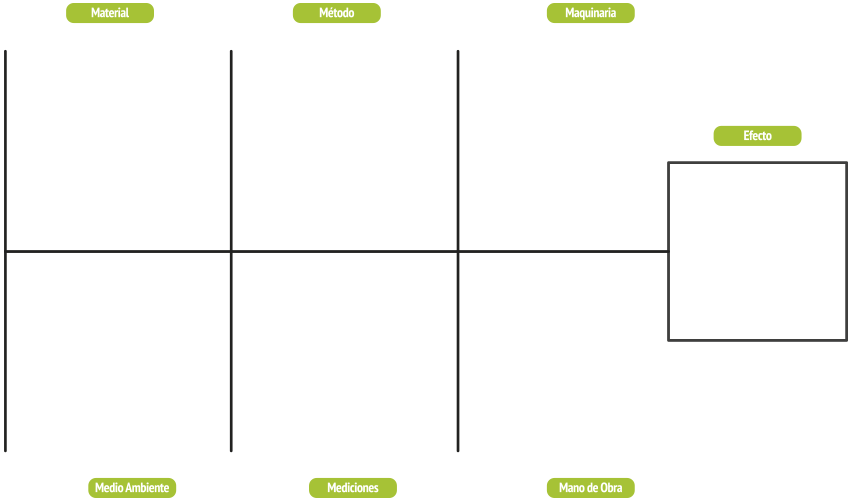
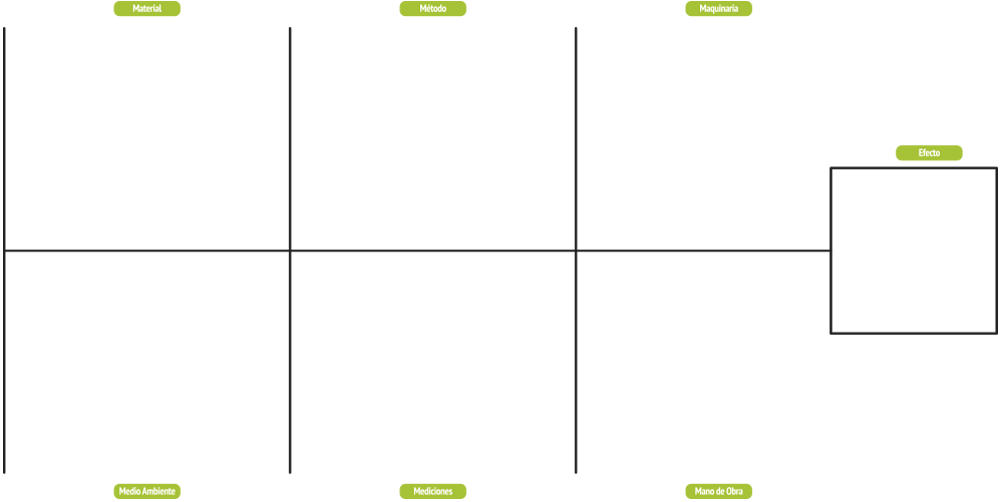
Correcion de modulo ishikawa

diff --git a/src/app/ishikawa/utils-for-pdf/generate.diagram.text.ts b/src/app/ishikawa/utils-for-pdf/generate.diagram.text.ts
@@ -1,7 +1,7 @@
 import { PetIshikawa } from "../../models/pet-ishikawa";
 import { PetIdeas } from "../../models/pet-ideas";
 
-function ajusteDeTexto(texto, x, y, maxWidth, alturaDeLinea, ctx: any) {
+function ajusteDeTexto(texto="", x, y, maxWidth, alturaDeLinea, ctx: any) {
     // crea el array de las palabras del texto
     let palabrasRy = texto.split(" ");
     // inicia la variable var lineaDeTexto
@@ -34,84 +34,84 @@ function getIdeasByEmeSelected(id_eme: number, ishikawa: PetIshikawa): Array<Pet
 
 function getDiamagraIshikawa(ishikawa: PetIshikawa, ctx: any, canvas: any) {
     //Pinta probelma
-    ajusteDeTexto(ishikawa.problema, canvas.width - 180, 173, 175, 8, ctx);
+    ajusteDeTexto(ishikawa.problema, canvas.width - 165, 178, 170, 8, ctx);
 
     //Mano de obra
     let ideas_mano_obra = getIdeasByEmeSelected(1, ishikawa);
     for (let i = 0; i < 3 && ideas_mano_obra[i]; i++) {
         let porques = ideas_mano_obra[i].porques;
-        let resta = (i == 0)? 389: (i == 1)? 322 : 256;
-        ajusteDeTexto(ideas_mano_obra[i].idea, canvas.width - resta, 262, 66, 8, ctx);
-        ajusteDeTexto(porques.porque_uno, canvas.width - resta, 322, 66, 8, ctx);
-        ajusteDeTexto(porques.porque_dos, canvas.width - resta, 349, 66, 8, ctx);
-        ajusteDeTexto(porques.porque_tres, canvas.width - resta, 376, 66, 8, ctx);
-        ajusteDeTexto(porques.porque_cuatro, canvas.width - resta, 403, 66, 8, ctx);
-        ajusteDeTexto(porques.porque_cinco, canvas.width - resta, 430, 66, 8, ctx);
+        let resta = (i == 0)? 420: (i == 1)? 335 : 250;
+        ajusteDeTexto(ideas_mano_obra[i].idea, canvas.width - resta, 262, 80, 8, ctx);
+        ajusteDeTexto(porques.porque_uno, canvas.width - resta, 320, 80, 8, ctx);
+        ajusteDeTexto(porques.porque_dos, canvas.width - resta, 353, 80, 8, ctx);
+        ajusteDeTexto(porques.porque_tres, canvas.width - resta, 386, 80, 8, ctx);
+        ajusteDeTexto(porques.porque_cuatro, canvas.width - resta, 419, 80, 8, ctx);
+        ajusteDeTexto(porques.porque_cinco, canvas.width - resta, 452, 80, 8, ctx);
     }
 
     //Mediciones
     let ideas_medicion = getIdeasByEmeSelected(3, ishikawa);
     for (let i = 0; i < 3 && ideas_medicion[i]; i++) {
         let porques = ideas_medicion[i].porques;
-        let resta = (i == 0)? 615: (i == 1)? 548 : 482;
-        ajusteDeTexto(ideas_medicion[i].idea, canvas.width - resta, 262, 66, 8, ctx);
-        ajusteDeTexto(porques.porque_uno, canvas.width - resta, 322, 66, 8, ctx);
-        ajusteDeTexto(porques.porque_dos, canvas.width - resta, 349, 66, 8, ctx);
-        ajusteDeTexto(porques.porque_tres, canvas.width - resta, 376, 66, 8, ctx);
-        ajusteDeTexto(porques.porque_cuatro, canvas.width - resta, 403, 66, 8, ctx);
-        ajusteDeTexto(porques.porque_cinco, canvas.width - resta, 430, 66, 8, ctx);
+        let resta = (i == 0)? 705: (i == 1)? 620 : 535;
+        ajusteDeTexto(ideas_medicion[i].idea, canvas.width - resta, 262, 80, 8, ctx);
+        ajusteDeTexto(porques.porque_uno, canvas.width - resta, 320, 80, 8, ctx);
+        ajusteDeTexto(porques.porque_dos, canvas.width - resta, 353, 80, 8, ctx);
+        ajusteDeTexto(porques.porque_tres, canvas.width - resta, 386, 80, 8, ctx);
+        ajusteDeTexto(porques.porque_cuatro, canvas.width - resta, 419, 80, 8, ctx);
+        ajusteDeTexto(porques.porque_cinco, canvas.width - resta, 452, 80, 8, ctx);
     }
 
     //Medio ambiente
     let ideas_medio_ambiente = getIdeasByEmeSelected(6, ishikawa);
     for (let i = 0; i < 3 && ideas_medio_ambiente[i]; i++) {
         let porques = ideas_medio_ambiente[i].porques;
-        let resta = (i == 0)? 840: (i == 1)? 773 : 707;
-        ajusteDeTexto(ideas_medio_ambiente[i].idea, canvas.width - resta, 262, 66, 8, ctx);
-        ajusteDeTexto(porques.porque_uno, canvas.width - resta, 322, 66, 8, ctx);
-        ajusteDeTexto(porques.porque_dos, canvas.width - resta, 349, 66, 8, ctx);
-        ajusteDeTexto(porques.porque_tres, canvas.width - resta, 376, 66, 8, ctx);
-        ajusteDeTexto(porques.porque_cuatro, canvas.width - resta, 403, 66, 8, ctx);
-        ajusteDeTexto(porques.porque_cinco, canvas.width - resta, 430, 66, 8, ctx);
+        let resta = (i == 0)? 990: (i == 1)? 905 : 820;
+        ajusteDeTexto(ideas_medio_ambiente[i].idea, canvas.width - resta, 262, 80, 8, ctx);
+        ajusteDeTexto(porques.porque_uno, canvas.width - resta, 320, 80, 8, ctx);
+        ajusteDeTexto(porques.porque_dos, canvas.width - resta, 353, 80, 8, ctx);
+        ajusteDeTexto(porques.porque_tres, canvas.width - resta, 386, 80, 8, ctx);
+        ajusteDeTexto(porques.porque_cuatro, canvas.width - resta, 419, 80, 8, ctx);
+        ajusteDeTexto(porques.porque_cinco, canvas.width - resta, 452, 80, 8, ctx);
     }
 
     //Maquinaria
     let ideas_maquinaria = getIdeasByEmeSelected(2, ishikawa);
     for (let i = 0; i < 3 && ideas_maquinaria[i]; i++) {
         let porques = ideas_maquinaria[i].porques;
-        let resta = (i == 0)? 389: (i == 1)? 322 : 256;
-        ajusteDeTexto(ideas_maquinaria[i].idea, canvas.width - resta, 200, 66, 8, ctx);
-        ajusteDeTexto(porques.porque_uno, canvas.width - resta, 173, 66, 8, ctx);
-        ajusteDeTexto(porques.porque_dos, canvas.width - resta, 146, 66, 8, ctx);
-        ajusteDeTexto(porques.porque_tres, canvas.width - resta, 119, 66, 8, ctx);
-        ajusteDeTexto(porques.porque_cuatro, canvas.width - resta, 92, 66, 8, ctx);
-        ajusteDeTexto(porques.porque_cinco, canvas.width - resta, 65, 66, 8, ctx);
+        let resta = (i == 0)? 420: (i == 1)? 335 : 250;
+        ajusteDeTexto(ideas_maquinaria[i].idea, canvas.width - resta, 200, 80, 8, ctx);
+        ajusteDeTexto(porques.porque_uno, canvas.width - resta, 167, 80, 8, ctx);
+        ajusteDeTexto(porques.porque_dos, canvas.width - resta, 134, 80, 8, ctx);
+        ajusteDeTexto(porques.porque_tres, canvas.width - resta, 101, 80, 8, ctx);
+        ajusteDeTexto(porques.porque_cuatro, canvas.width - resta, 68, 80, 8, ctx);
+        ajusteDeTexto(porques.porque_cinco, canvas.width - resta, 35, 80, 8, ctx);
     }
 
     //Metodo
     let ideas_metodo = getIdeasByEmeSelected(4, ishikawa);
     for (let i = 0; i < 3 && ideas_metodo[i]; i++) {
         let porques = ideas_metodo[i].porques;
-        let resta = (i == 0)? 615: (i == 1)? 548 : 482;
-        ajusteDeTexto(ideas_metodo[i].idea, canvas.width - resta, 200, 66, 8, ctx);
-        ajusteDeTexto(porques.porque_uno, canvas.width - resta, 173, 66, 8, ctx);
-        ajusteDeTexto(porques.porque_dos, canvas.width - resta, 146, 66, 8, ctx);
-        ajusteDeTexto(porques.porque_tres, canvas.width - resta, 119, 66, 8, ctx);
-        ajusteDeTexto(porques.porque_cuatro, canvas.width - resta, 92, 66, 8, ctx);
-        ajusteDeTexto(porques.porque_cinco, canvas.width - resta, 65, 66, 8, ctx);
+        let resta = (i == 0)? 705: (i == 1)? 620 : 535;
+        ajusteDeTexto(ideas_metodo[i].idea, canvas.width - resta, 200, 80, 8, ctx);
+        ajusteDeTexto(porques.porque_uno, canvas.width - resta, 167, 80, 8, ctx);
+        ajusteDeTexto(porques.porque_dos, canvas.width - resta, 134, 80, 8, ctx);
+        ajusteDeTexto(porques.porque_tres, canvas.width - resta, 101, 80, 8, ctx);
+        ajusteDeTexto(porques.porque_cuatro, canvas.width - resta, 68, 80, 8, ctx);
+        ajusteDeTexto(porques.porque_cinco, canvas.width - resta, 35, 80, 8, ctx);
     }
 
     //Material
     let ideas_material = getIdeasByEmeSelected(5, ishikawa);
     for (let i = 0; i < 3 && ideas_material[i]; i++) {
         let porques = ideas_material[i].porques;
-        let resta = (i == 0)? 840: (i == 1)? 773 : 707;
-        ajusteDeTexto(ideas_material[i].idea, canvas.width - resta, 200, 66, 8, ctx);
-        ajusteDeTexto(porques.porque_uno, canvas.width - resta, 173, 66, 8, ctx);
-        ajusteDeTexto(porques.porque_dos, canvas.width - resta, 146, 66, 8, ctx);
-        ajusteDeTexto(porques.porque_tres, canvas.width - resta, 119, 66, 8, ctx);
-        ajusteDeTexto(porques.porque_cuatro, canvas.width - resta, 92, 66, 8, ctx);
-        ajusteDeTexto(porques.porque_cinco, canvas.width - resta, 65, 66, 8, ctx);
+        let resta = (i == 0)? 990: (i == 1)? 905 : 820;
+        ajusteDeTexto(ideas_material[i].idea, canvas.width - resta, 200, 80, 8, ctx);
+        ajusteDeTexto(porques.porque_uno, canvas.width - resta, 167, 80, 8, ctx);
+        ajusteDeTexto(porques.porque_dos, canvas.width - resta, 134, 80, 8, ctx);
+        ajusteDeTexto(porques.porque_tres, canvas.width - resta, 101, 80, 8, ctx);
+        ajusteDeTexto(porques.porque_cuatro, canvas.width - resta, 68, 80, 8, ctx);
+        ajusteDeTexto(porques.porque_cinco, canvas.width - resta, 35, 80, 8, ctx);
     }
 
 }

diff --git a/src/app/ishikawa/formulario-ishikawa/formulario-ishikawa.component.html b/src/app/ishikawa/formulario-ishikawa/formulario-ishikawa.component.html
@@ -139,20 +139,23 @@
                       <div class="col s12 m12 l4 xl4">
                         <div class="collections-title">
                           <div class="input-field col s12 m12 l12 xl12">
-                            <input id="porque_uno" type="text" maxlength="40" [(ngModel)]="idea.porques.porque_uno" [ngModelOptions]="{standalone: true}" [disabled]="bloquear">
+                            <input id="porque_uno" type="text" maxlength="40" [(ngModel)]="idea.porques.porque_uno" [ngModelOptions]="{standalone: true}"
+                              [disabled]="bloquear">
                             <label for="porque_uno">1. ¿Por que?</label>
                           </div>
                         </div>
                       </div>
                       <div class="col s12 m12 l4 xl4">
                         <div class="input-field col s12 m12 l12 xl12">
-                          <input id="porque_dos" type="text" maxlength="40" [(ngModel)]="idea.porques.porque_dos" [ngModelOptions]="{standalone: true}" [disabled]="bloquear">
+                          <input id="porque_dos" type="text" maxlength="40" [(ngModel)]="idea.porques.porque_dos" [ngModelOptions]="{standalone: true}"
+                            [disabled]="bloquear">
                           <label for="porque_dos">2. ¿Por que?</label>
                         </div>
                       </div>
                       <div class="col s12 m12 l4 xl4">
                         <div class="input-field col s12 m12 l12 xl12">
-                          <input id="porque_tres" maxlength="40" type="text" [(ngModel)]="idea.porques.porque_tres" [ngModelOptions]="{standalone: true}" [disabled]="bloquear">
+                          <input id="porque_tres" maxlength="40" type="text" [(ngModel)]="idea.porques.porque_tres" [ngModelOptions]="{standalone: true}"
+                            [disabled]="bloquear">
                           <label for="porque_tres">3. ¿Por que?</label>
                         </div>
                       </div>
@@ -161,14 +164,16 @@
                       <div class="col s12 m12 l4 xl4">
                         <div class="collections-title">
                           <div class="input-field col s12 m12 l12 xl12">
-                            <input id="porque_cuatro" type="text" maxlength="40" [(ngModel)]="idea.porques.porque_cuatro" [ngModelOptions]="{standalone: true}" [disabled]="bloquear">
+                            <input id="porque_cuatro" type="text" maxlength="40" [(ngModel)]="idea.porques.porque_cuatro" [ngModelOptions]="{standalone: true}"
+                              [disabled]="bloquear">
                             <label for="porque_cuatro">4. ¿Por que?</label>
                           </div>
                         </div>
                       </div>
                       <div class="col s12 m12 l4 xl4">
                         <div class="input-field col s12 m12 l12 xl12">
-                          <input id="porque_cinco" type="text"  maxlength="40" [(ngModel)]="idea.porques.porque_cinco" [ngModelOptions]="{standalone: true}" [disabled]="bloquear">
+                          <input id="porque_cinco" type="text" maxlength="40" [(ngModel)]="idea.porques.porque_cinco" [ngModelOptions]="{standalone: true}"
+                            [disabled]="bloquear">
                           <label for="porque_cinco">5. ¿Por que?</label>
                         </div>
                       </div>
@@ -553,7 +558,7 @@
         <h6 class="color_titulo center-align" id="titulo"></h6>
       </div>
       <div class="input-field col s12 m12 l12 xl12">
-        <input id="idea_eme" type="text"  maxlength="80"  [(ngModel)]="tmp_idea.idea" [ngModelOptions]="{standalone: true}">
+        <input id="idea_eme" type="text" maxlength="80" [(ngModel)]="tmp_idea.idea" [ngModelOptions]="{standalone: true}">
         <label for="idea_eme">Escriba aquí su idea</label>
       </div>
     </div>
@@ -583,10 +588,8 @@
     </div>
   </div>
 </div>
-<div id="modalDiagrama" class="modal" style="width: calc(95%); height: calc(100%);z-index: 1005;">
-  <div class="modal-content center-align">
-    <div class="content_diagrama">
+<div id="modalDiagrama" class="modal">
+  <div class="modal-content">
       <canvas id="image"></canvas>
-    </div>
   </div>
 </div>

diff --git a/src/app/ishikawa/formulario-ishikawa/formulario-ishikawa.component.css b/src/app/ishikawa/formulario-ishikawa/formulario-ishikawa.component.css
@@ -58,16 +58,23 @@ td > p{
     margin-right: 10px
 }
 
-.content_diagrama {
-    margin: 0px;
-    padding: 0px;
-  }
+
 
  #myCanvas{
  max-width: 100%;
  height: auto;
  }
 
- #modalDiagrama { 
-     width: 90% !important ; height: 90% !important ;
-}
+ /* #modalDiagrama { 
+     width: 1000px !important ; 
+     height: 90% !important ;
+} */
+
+
+/*
+ * Estilo para mostrar scroll en ejex
+ */
+ .scroll_modal{
+    /* overflow: hidden;  */
+    overflow-x: scroll;
+ }

diff --git a/src/app/ishikawa/formulario-ishikawa/formulario-ishikawa.component.ts b/src/app/ishikawa/formulario-ishikawa/formulario-ishikawa.component.ts
@@ -437,6 +437,7 @@ export class FormularioIshikawaComponent implements OnInit, OnChanges {
          */
         canvas.width = img.naturalWidth
         canvas.height = img.naturalHeight
+      
         ctx.drawImage(img, 0, 0);
         ctx.font = "9px Arial";
         getDiamagraIshikawa(ishikawa, ctx, canvas);
